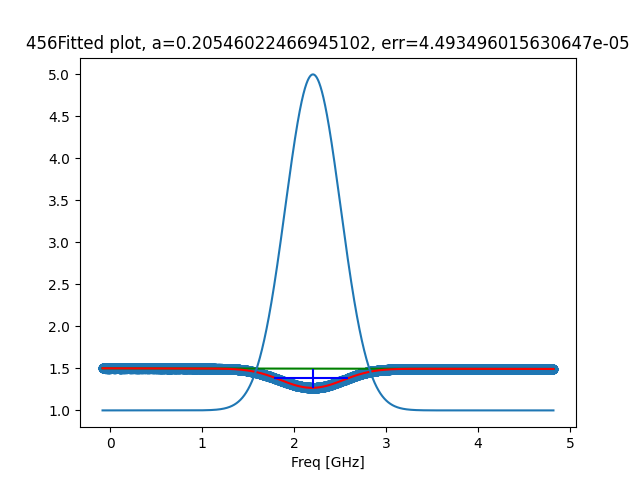
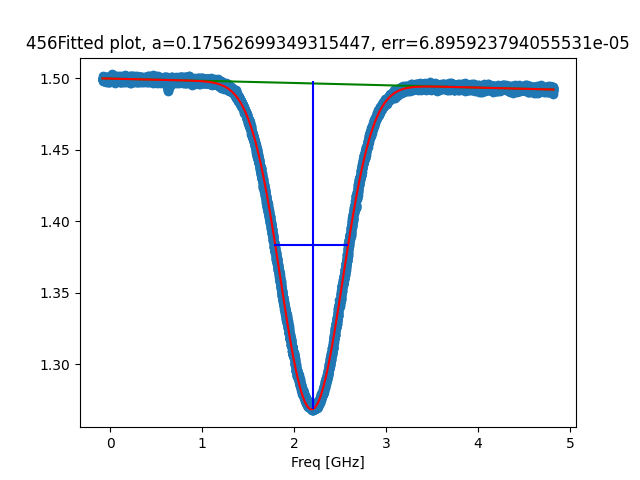
Think its working

diff --git a/Absorption_calc.py b/Absorption_calc.py
@@ -610,8 +610,8 @@ class data:
                 self.abs_freq = list(map(lambda x:  x*29.9792458,abs_wavenum))#29.9..... = c decimals for scaling to convert to GHz
                 self.center = np.mean(self.abs_freq)
                 self.hypsplit = list(map(lambda x: x-self.abs_freq[0],self.abs_freq)) 
-                self.hyp_weights = [5/12,7/26,5/16]
-                # self.hyp_weights = [5/6,7/8,5/8]
+                self.hyp_weights = [5/12,7/16,5/16]
+                # self.hyp_weights = [5/14,3/8,15/56]
                 #Higher frequency because its closer ie. F=3->F=2,3,4
             else:
                 #F1 == 4
@@ -687,12 +687,12 @@ class data:
                 #this is 456 scan
                 test = LinFit([[self.beat_rng[0],peaks[0]-int(properties['widths'][0]*1.5)],[peaks[0]+int(properties['widths'][0]*1.5),self.beat_rng[1]]], self.beatfit(self.indices), self.scaledT)
                 test2 = LinFit2([[self.beat_rng[0],peaks[0]-int(properties['widths'][0]*1.5)],[peaks[0]+int(properties['widths'][0]*1.5),self.beat_rng[1]]], self.beatfit(self.indices), self.scaledT)
-                test3 = LinFit3([[self.beat_rng[0],peaks[0]-int(properties['widths'][0]*1.5)],[peaks[0]+int(properties['widths'][0]*1.5),self.beat_rng[1]]], self.beatfit(self.indices), self.scaledT)
+                test3 = LinFit3([[self.beat_rng[0],peaks[0]-int(properties['widths'][0]*1.5)],[peaks[0]+int(properties['widths'][0]*1.5),self.beat_rng[1]]], self.beatfit(self.indices), self.scaledT-baseline)
 
-                gauss1 = lambda x,peak,cen,s: peak * np.exp(-((x-cen)/s)**2/2) + 1
-                weights1 = gauss1(plotting_freq,4,self.beatfit(peaks[0]),0.3)
-                plt.plot(plotting_freq,weights1)
-                plt.show()
+                # gauss1 = lambda x,peak,cen,s: peak * np.exp(-((x-cen)/s)**2/2) + 1
+                # weights1 = gauss1(plotting_freq,4,self.beatfit(peaks[0]),0.7)
+                # plt.plot(plotting_freq,weights1)
+                # plt.show()
             else:
                 # print('left',peaks[0]-int(properties['widths'][0]),'right',peaks[1]+int(properties['widths'][1]))
                 test = LinFit([[self.beat_rng[0],peaks[0]-int(properties['widths'][0])],[peaks[1]+int(properties['widths'][1]),self.beat_rng[1]]], self.beatfit(self.indices), self.scaledT)
@@ -752,13 +752,13 @@ class data:
                 
                 # params.add_many( #using Test 3
                     ('a', 6, True, 0, None, None, None),
-                    ('p0', test3[0]-baseline, False, 0.7*(test3[0]-baseline), 1.3*(test3[0]-baseline), None, None),
+                    ('p0', test3[0], False, 0.7*(test3[0]-baseline), 1.3*(test3[0]-baseline), None, None),
                     ('h1', test3[1], False, test3[1]-abs(test3[1])*0.2, test3[1]+abs(test3[1])*0.2, None, None),
                     ('h2', test3[2], False, test3[2]-abs(test3[2])*0.2, test3[2]+abs(test3[2])*0.2, None, None),
                     ('mv', guess, True, 0, 4, None, None),
-                    ('T', self.hotbody, True, low, high, None, None),
-                    ('gamma', Gamma*1.3, True, Gamma, Gamma*3, None, None),
-                    ('base', baseline, False, baseline*0.7, baseline*1.3, None, None))
+                    ('T', self.hotbody, True, None, None, None, None),
+                    ('gamma', Gamma*1.3, False, Gamma, Gamma*3, None, None))#,
+                    #('base', baseline, False, baseline*0.7, baseline*1.3, None, None))
                 
                 # params2.add_many(('a', 6, True, 0, None, None, None),
                 #     ('mv', guess, True, 0, 4, None, None),
@@ -772,12 +772,12 @@ class data:
                     ('h1', test[0], True, test[1]-abs(test[1])*0.2, test[0]+abs(test[0])*0.2, None, None),
                     ('mv', guess, True, 0, 4, None, None),
                     ('T', self.hotbody, True, low, high, None, None),
-                    ('gamma', Gamma*1.3, False, Gamma, Gamma*3, None, None),
+                    ('gamma', Gamma*1.3, True, Gamma, Gamma*3, None, None),
                     ('base', baseline, False, baseline*0.8, baseline*1.2, None, None))
             if self.scan == '456':
                 params['a'].set(value=0.35)
                 # params['gamma'].set(vary=False)
-                params['base'].set(vary=False)
+                #params['base'].set(vary=False)
                 # fun1 = lambda w,a,p0,h1,mv,T,gamma,base: (p0+h1*w)*np.exp(-a*((w-mv+self.abs_freq[0])/10**6)*(voigt(w,coeff[0],mv,np.sqrt(T+273.15)*k1*self.abs_freq[0],gamma)+
                 #                                                             voigt(w,coeff[1],mv+self.hypsplit[1],np.sqrt(T+273.15)*k1*self.abs_freq[1],gamma)+
                 #                                                             voigt(w,coeff[2],mv+self.hypsplit[2],np.sqrt(T+273.15)*k1*self.abs_freq[2],gamma))) + base
@@ -791,15 +791,15 @@ class data:
                 # result = mod.fit(self.scaledT[self.beat_rng[0]:self.beat_rng[1]],params=params,w=plotting_freq,method='shgo')
                 
                 #Redone quadratic fitting
-                fun1 = lambda w,a,p0,h1,h2,mv,T,gamma,base: (h2*(w-h1)**2+p0)*(np.exp(-a*((w-mv+self.abs_freq[0])/10**6)*(voigt(w,coeff[0],mv,np.sqrt(T+273.15)*k1*self.abs_freq[0],gamma)+
+                fun1 = lambda w,a,p0,h1,h2,mv,T,gamma: (h2*(w-h1)**2+p0)*(np.exp(-a*((w-mv+self.abs_freq[0])/10**6)*(voigt(w,coeff[0],mv,np.sqrt(T+273.15)*k1*self.abs_freq[0],gamma)+
                                                                             voigt(w,coeff[1],mv+self.hypsplit[1],np.sqrt(T+273.15)*k1*self.abs_freq[1],gamma)+
-                                                                            voigt(w,coeff[2],mv+self.hypsplit[2],np.sqrt(T+273.15)*k1*self.abs_freq[2],gamma))) + base)
+                                                                            voigt(w,coeff[2],mv+self.hypsplit[2],np.sqrt(T+273.15)*k1*self.abs_freq[2],gamma))))# + base)
                 # fun2 = lambda w,a,mv,T,gamma: np.exp(-a*((w-mv+self.abs_freq[0])/10**6)*(voigt(w,coeff[0],mv,np.sqrt(T+273.15)*k1*self.abs_freq[0],gamma)+
                 #                                                             voigt(w,coeff[1],mv+self.hypsplit[1],np.sqrt(T+273.15)*k1*self.abs_freq[1],gamma)+
                 #                                                             voigt(w,coeff[2],mv+self.hypsplit[2],np.sqrt(T+273.15)*k1*self.abs_freq[2],gamma)))
-                mod = lm.Model(fun1,['w'],['a','p0','h1','h2','mv','T','gamma','base'])
+                mod = lm.Model(fun1,['w'],['a','p0','h1','h2','mv','T','gamma'])#,'base'])
                 # mod2 = lm.Model(fun2,['w'],['a','mv','T','gamma'])
-                result = mod.fit(self.scaledT[self.beat_rng[0]:self.beat_rng[1]],params=params,w=plotting_freq,method='ampgo',weights=weights1)
+                result = mod.fit(self.scaledT[self.beat_rng[0]:self.beat_rng[1]],params=params,w=plotting_freq,method='ampgo')#,weights=weights1)
                 # temp = np.array(self.scaledT[self.beat_rng[0]:self.beat_rng[1]])
                 # temp2 = test2[0]*(plotting_freq**2)+test2[1]*(plotting_freq)+test2[2]
                 # new  = temp/temp2
@@ -828,14 +828,15 @@ class data:
                 np.savetxt(self.folder+r'\fitting\processed\pcov.csv',self.pcov,delimiter=',')
             except:
                 self.pcov = np.zeros(len(self.fitted_param)).tolist()
-            plt.scatter(plotting_freq,self.scaledT[self.beat_rng[0]:self.beat_rng[1]])
+            plt.scatter(plotting_freq,self.scaledT[self.beat_rng[0]:self.beat_rng[1]]-baseline)
             # plt.scatter(plotting_freq,new)
             # plt.plot(plotting_freq,result.best_fit, '-r',linewidth=0.2,marker='.')#, mew='0.05')
             plt.title(self.scan+ 'Fitted plot, a='+str(self.fitted_param[0]) + r', err='+ str(self.alph_err))
             plt.xlabel('Freq [GHz]')
             # plt.show()
+            # lambda x,p0,shift,k:k*(x-shift)**2+p0
             if self.scan == '456':
-                plt.plot(plotting_freq,test2[0]*(plotting_freq**2)+test2[1]*(plotting_freq)+test2[2],'-g')
+                plt.plot(plotting_freq,test3[2]*(plotting_freq-test3[1])**2+test3[0],'-g')
                 plt.plot(plotting_freq,fun1(plotting_freq,*self.fitted_param),'-r')
                 # plt.plot(plotting_freq,fun2(plotting_freq,*fitted_param2),'-r')
             else:
@@ -847,7 +848,7 @@ class data:
             k4 = self.beatfit(properties["right_ips"])
             plt.vlines(x=self.beatfit(peaks), ymin= self.scaledT[peaks], ymax = properties['prominences']+self.scaledT[peaks], color = "blue")
             plt.hlines(y=-properties["width_heights"], xmin=k3,xmax=k4, color = "blue")
-            plt.plot(plotting_freq,weights1)
+            # plt.plot(plotting_freq,weights1)
             plt.savefig(self.folder+r'\plots\FittedScan.png')
             plt.show()
             plt.clf()
